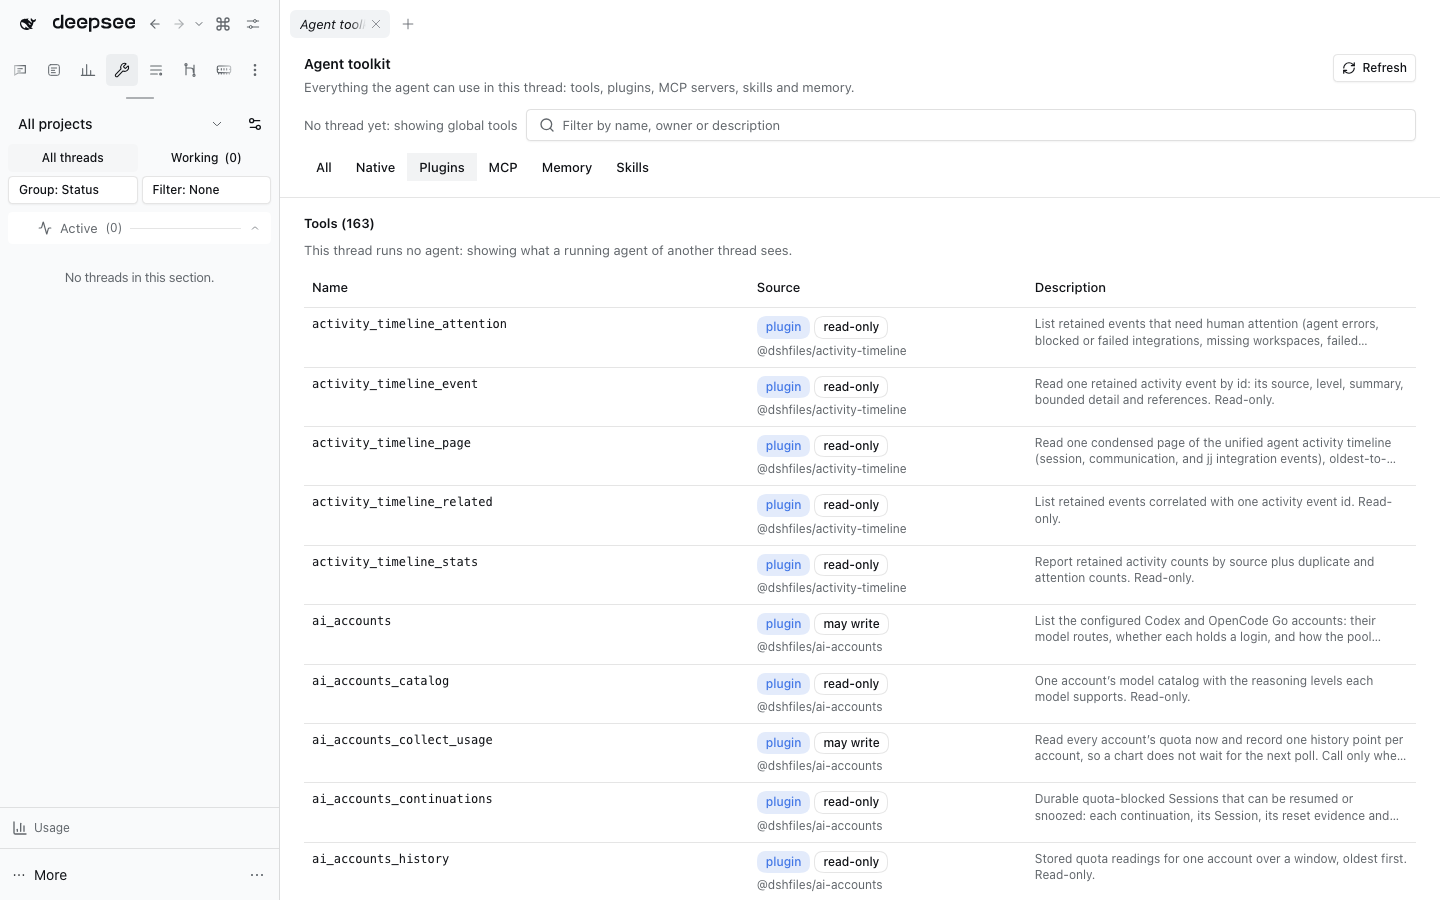
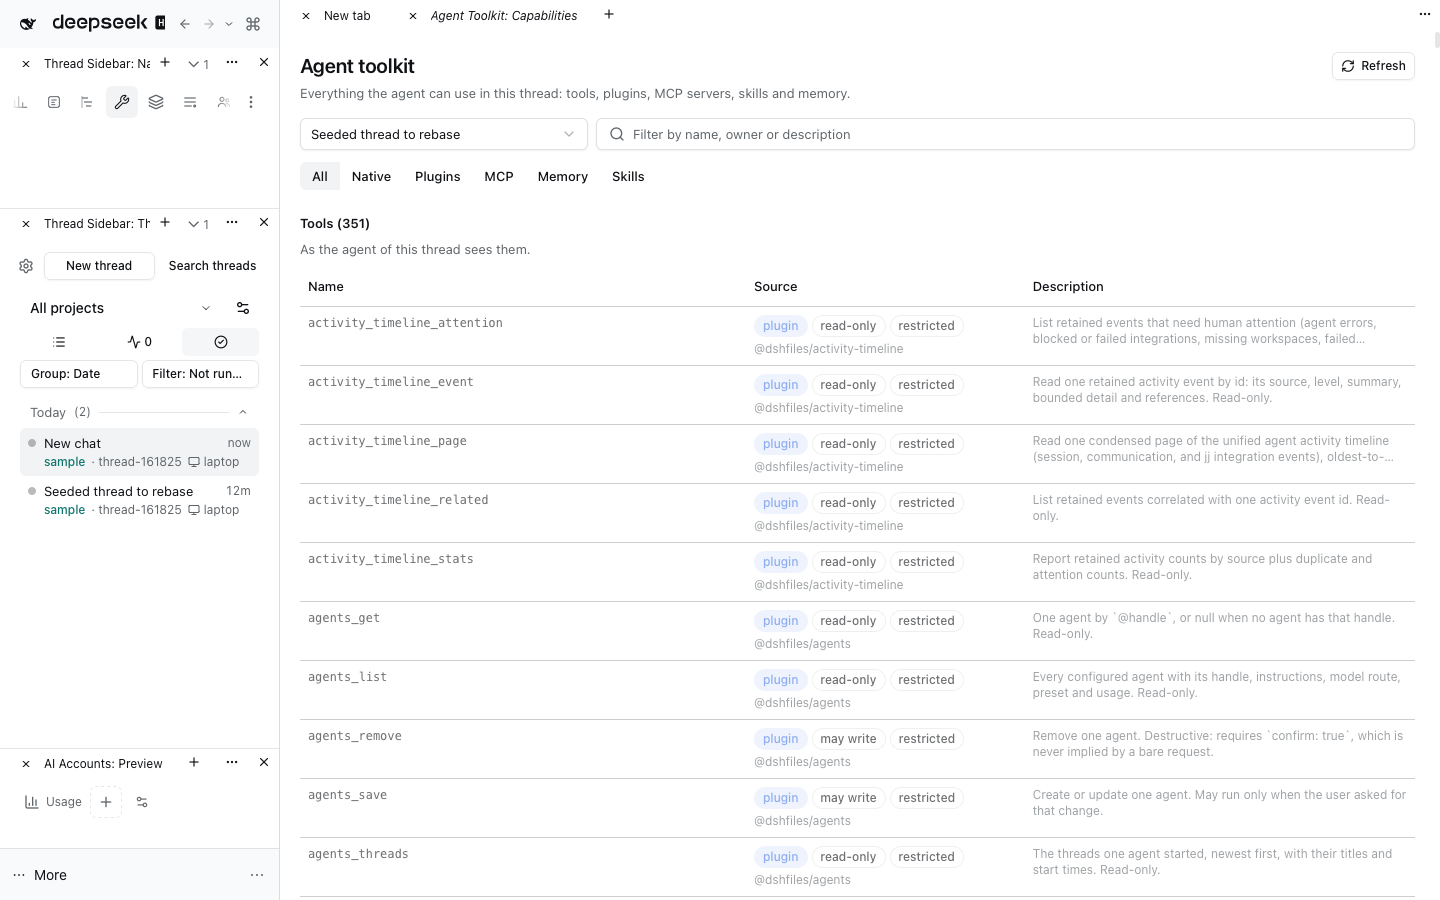
refactor(agent-toolkit): migrate the toolkit page to the page kit
Page header with Refresh in the overflow-aware actions, PageSection sections,
kit empty states, and a filter strip that scrolls instead of wrapping. The
memory start block names the project and keeps its path in a tooltip; a preset
restriction is a neutral badge rather than an error colour (dark cockpit); and
unavailable states say how to recover. Behaviour is unchanged.

diff --git a/plugins/@dshfiles/agent-toolkit/src/toolkit-panel.tsx b/plugins/@dshfiles/agent-toolkit/src/toolkit-panel.tsx
@@ -2,6 +2,7 @@ import { dshxRegistryApi, isApiOwnerMissing } from '@dshfiles/dshx/api'
 import { useApi } from '@dshfiles/dshx/client'
 import { mcpServersApi, decodeSnapshot } from '@dshfiles/mcp-servers/api'
 import { memoryApi } from '@dshfiles/memory/api'
+import { EmptyState, Page, PageSection } from '@dshfiles/plugin-ui/components/page'
 import { Alert, AlertDescription } from '@dshfiles/plugin-ui/components/ui/alert'
 import { Badge } from '@dshfiles/plugin-ui/components/ui/badge'
 import { Button } from '@dshfiles/plugin-ui/components/ui/button'
@@ -65,13 +66,13 @@ const INVOCATION_LABEL = { both: 'invokeBoth', user: 'invokeUser', model: 'invok
 const QUERY_ROOT = ['agent-toolkit'] as const
 
 const Section = (props: { readonly id: string; readonly title: string; readonly children: ReactNode }): ReactNode => (
-  <section aria-labelledby={props.id} className="dshx:flex dshx:min-w-0 dshx:flex-col dshx:gap-2">
-    <h2 id={props.id} className="dshx:text-sm dshx:font-semibold">
-      {props.title}
-    </h2>
+  <PageSection id={props.id} heading={props.title}>
     {props.children}
-  </section>
+  </PageSection>
 )
+
+/** A project is filed by its folder; show its name and keep the path in a tooltip. */
+const projectName = (project: string): string => project.replace(/\/+$/u, '').split('/').at(-1) || project
 
 const Muted = (props: { readonly children: ReactNode }): ReactNode => <p className="dshx:text-sm dshx:text-muted-foreground">{props.children}</p>
 
@@ -146,29 +147,27 @@ export const AgentToolkitPanel = (props: {
   )
   const methods = listing.data === undefined ? [] : AgentToolkit.apiMethods({ listing: listing.data, filter, query })
   const skills = (listing.data?.skills ?? []).filter(skill => AgentToolkit.matches(query, skill.name, skill.description, skill.provider))
-  const noMatch = <Muted>{t('noMatch')}</Muted>
+  const noMatch = <EmptyState className="dshx:py-4">{t('noMatch')}</EmptyState>
 
   return (
     <TooltipProvider>
-      <main className="dshx-root dshx:@container dshx:flex dshx:h-full dshx:min-h-0 dshx:flex-col dshx:overflow-y-auto" data-testid="agent-toolkit">
-        <div className="dshx:flex dshx:flex-col dshx:gap-3 dshx:border-b dshx:border-border dshx:px-6 dshx:py-4 dshx:@max-pane-narrow:px-3">
-          <div className="dshx:flex dshx:items-start dshx:justify-between dshx:gap-3">
-            <div className="dshx:flex dshx:min-w-0 dshx:flex-col dshx:gap-1">
-              <h1 className="dshx:text-base dshx:font-semibold">{t('title')}</h1>
-              <p className="dshx:text-sm dshx:text-muted-foreground dshx:@max-pane-narrow:sr-only">{t('subtitle')}</p>
-            </div>
-            <Button
-              variant="outline"
-              size="sm"
-              className="dshx:shrink"
-              aria-label={t('refresh')}
-              onClick={() => void queryClient.invalidateQueries({ queryKey: QUERY_ROOT })}
-              disabled={listing.isFetching}
-            >
-              <RefreshCwIcon className={cn(listing.isFetching && 'dshx:animate-spin')} />
-              <span className="dshx:@max-pane-compact:sr-only">{t('refresh')}</span>
-            </Button>
-          </div>
+      <Page
+        heading={t('title')}
+        description={t('subtitle')}
+        actions={[
+          {
+            id: 'refresh',
+            label: t('refresh'),
+            icon: <RefreshCwIcon className={cn(listing.isFetching && 'dshx:animate-spin')} />,
+            onSelect: () => void queryClient.invalidateQueries({ queryKey: QUERY_ROOT }),
+            disabled: listing.isFetching,
+          },
+        ]}
+        scroll
+        data-testid="agent-toolkit"
+        bodyClassName="dshx:gap-6"
+      >
+        <div className="dshx:flex dshx:flex-col dshx:gap-3">
           <div className="dshx:flex dshx:flex-wrap dshx:items-center dshx:gap-2">
             {thread === undefined ? (
               <Muted>{t('noThread')}</Muted>
@@ -198,7 +197,7 @@ export const AgentToolkitPanel = (props: {
           </div>
           <ToggleGroup
             aria-label={t('filterLabel')}
-            className="dshx:flex-wrap"
+            className="dshx:max-w-full dshx:justify-start dshx:overflow-x-auto"
             size="sm"
             type="single"
             value={filter}
@@ -215,7 +214,6 @@ export const AgentToolkitPanel = (props: {
           </ToggleGroup>
         </div>
 
-        <div className="dshx:flex dshx:flex-col dshx:gap-6 dshx:px-6 dshx:py-4 dshx:@max-pane-narrow:px-3">
           {listing.isError ? (
             <Alert variant="destructive">
               <AlertDescription>{t('unavailable')}</AlertDescription>
@@ -286,7 +284,7 @@ export const AgentToolkitPanel = (props: {
                                 <Tooltip>
                                   <TooltipTrigger asChild>
                                     <span className="dshx:inline-flex">
-                                      <Badge variant="destructive">{t('restricted')}</Badge>
+                                      <Badge variant="outline">{t('restricted')}</Badge>
                                     </span>
                                   </TooltipTrigger>
                                   <TooltipContent>{t('restrictedHint')}</TooltipContent>
@@ -407,13 +405,13 @@ export const AgentToolkitPanel = (props: {
             <Section id="agent-toolkit-mcp" title={t('mcp', { count: mcpRows.length })}>
               {servers.isPending ? <Loading label={t('loading')} /> : null}
               {servers.isError ? <Muted>{isApiOwnerMissing(servers.error) ? t('mcpUnavailable') : t('unavailable')}</Muted> : null}
-              {servers.data !== undefined && servers.data.servers.length === 0 ? <Muted>{t('mcpEmpty')}</Muted> : null}
+              {servers.data !== undefined && servers.data.servers.length === 0 ? <EmptyState className="dshx:py-4">{t('mcpEmpty')}</EmptyState> : null}
               <ul className="dshx:flex dshx:flex-col dshx:gap-2">
                 {mcpRows.map(row => (
                   <li key={row.id} className="dshx:flex dshx:flex-col dshx:gap-1 dshx:rounded-md dshx:border dshx:border-border dshx:p-3">
                     <div className="dshx:flex dshx:flex-wrap dshx:items-center dshx:gap-2">
                       <span className="dshx:min-w-0 dshx:truncate dshx:text-sm dshx:font-medium">{row.name}</span>
-                      <Badge variant={row.lifecycle === 'loaded' ? 'success' : row.lifecycle === 'start-failed' ? 'destructive' : 'muted'}>
+                      <Badge variant={row.lifecycle === 'start-failed' ? 'destructive' : row.lifecycle === 'loaded' ? 'secondary' : 'muted'}>
                         {row.enabled ? row.lifecycle : t('mcpOff')}
                       </Badge>
                       <span className="dshx:text-xs dshx:text-muted-foreground">{t('mcpToolCount', { count: row.tools.length })}</span>
@@ -476,9 +474,16 @@ export const AgentToolkitPanel = (props: {
                       {t('openMemory')}
                     </Button>
                   </div>
-                  <p className="dshx:text-xs dshx:text-muted-foreground dshx:break-all">{t('memoryBlock', { project: startBlock.data.project })}</p>
+                  <Tooltip>
+                    <TooltipTrigger asChild>
+                      <p className="dshx:w-fit dshx:text-xs dshx:text-muted-foreground dshx:break-all">
+                        {t('memoryBlock', { project: projectName(startBlock.data.project) })}
+                      </p>
+                    </TooltipTrigger>
+                    <TooltipContent>{startBlock.data.project}</TooltipContent>
+                  </Tooltip>
                   {startBlock.data.text === '' ? (
-                    <Muted>{t('memoryBlockEmpty')}</Muted>
+                    <EmptyState className="dshx:py-4">{t('memoryBlockEmpty')}</EmptyState>
                   ) : (
                     <pre className="dshx:max-h-72 dshx:overflow-auto dshx:rounded-md dshx:bg-muted dshx:p-3 dshx:font-mono dshx:text-xs dshx:whitespace-pre-wrap">
                       {startBlock.data.text}
@@ -488,8 +493,7 @@ export const AgentToolkitPanel = (props: {
               )}
             </Section>
           ) : null}
-        </div>
-      </main>
+      </Page>
     </TooltipProvider>
   )
 }

diff --git a/plugins/@dshfiles/agent-toolkit/src/locales.ts b/plugins/@dshfiles/agent-toolkit/src/locales.ts
@@ -50,7 +50,7 @@ const en = {
   disabled: 'disabled',
   phaseUnknown: 'not loaded',
   noTools: 'No tool',
-  mcpUnavailable: 'MCP servers is not loaded, so its servers are unknown.',
+  mcpUnavailable: 'MCP servers are unknown because the MCP plugin is not loaded. Enable it in Plugins, then select Refresh.',
   mcpEmpty: 'No MCP server is configured.',
   mcpToolCount: '{count} tools',
   mcpOff: 'off',
@@ -66,14 +66,14 @@ const en = {
   invokeUser: '/name only',
   invokeModel: 'model only',
   invokeNone: 'not invocable',
-  memoryUnavailable: 'Memory is not loaded or is off.',
+  memoryUnavailable: 'Memory is not loaded or is off. Turn it on in Settings, then select Refresh.',
   memoryNoThread: 'Memory is filed by project: pick a thread to see its project’s.',
   memoryNotes: 'Notes by type',
   memoryNoNotes: 'No note for this project yet.',
   memoryBlock: 'Start block for {project}',
   memoryBlockEmpty: 'Memory adds nothing to a new thread of this project yet.',
   openMemory: 'Open the Memory panel',
-  unavailable: 'The capability catalog is unavailable: no loaded dshx Host serves it.',
+  unavailable: 'The capability catalog is unavailable: no loaded dshx Host serves it. Select Refresh; if it stays empty, restart DSH when no thread is working.',
   loading: 'Reading what the agent can use…',
   noMatch: 'Nothing matches.',
   unknownVersion: '—',
@@ -82,7 +82,7 @@ const en = {
 const zh = {
   title: '智能体工具箱',
   viewCapabilities: '能力',
-  subtitle: '此对话中智能体可用的一切：工具、插件、MCP 服务器、技能与记忆。',
+  subtitle: '此线程中智能体可用的一切：工具、插件、MCP 服务器、技能与记忆。',
   paletteOpen: '打开智能体工具箱',
   thread: '对话',
   noThread: '尚无对话：显示全局工具',

diff --git a/plugins/@dshfiles/agent-toolkit/src/toolkit-panel.test.tsx b/plugins/@dshfiles/agent-toolkit/src/toolkit-panel.test.tsx
@@ -148,7 +148,7 @@ describe('Agent toolkit page', () => {
     expect(screen.queryByTitle('/repo/.agents/skills/verify-dsh/SKILL.md')).toBeNull()
     expect(screen.queryByTitle('/home/me/.agents/skills/caveman/SKILL.md')).toBeNull()
     expect(await screen.findByText('feedback · 2')).toBeTruthy()
-    expect(screen.getByText('Start block for /repo')).toBeTruthy()
+    expect(screen.getByText('Start block for repo')).toBeTruthy()
   })
 
   it('narrows to one source and its section', async () => {
